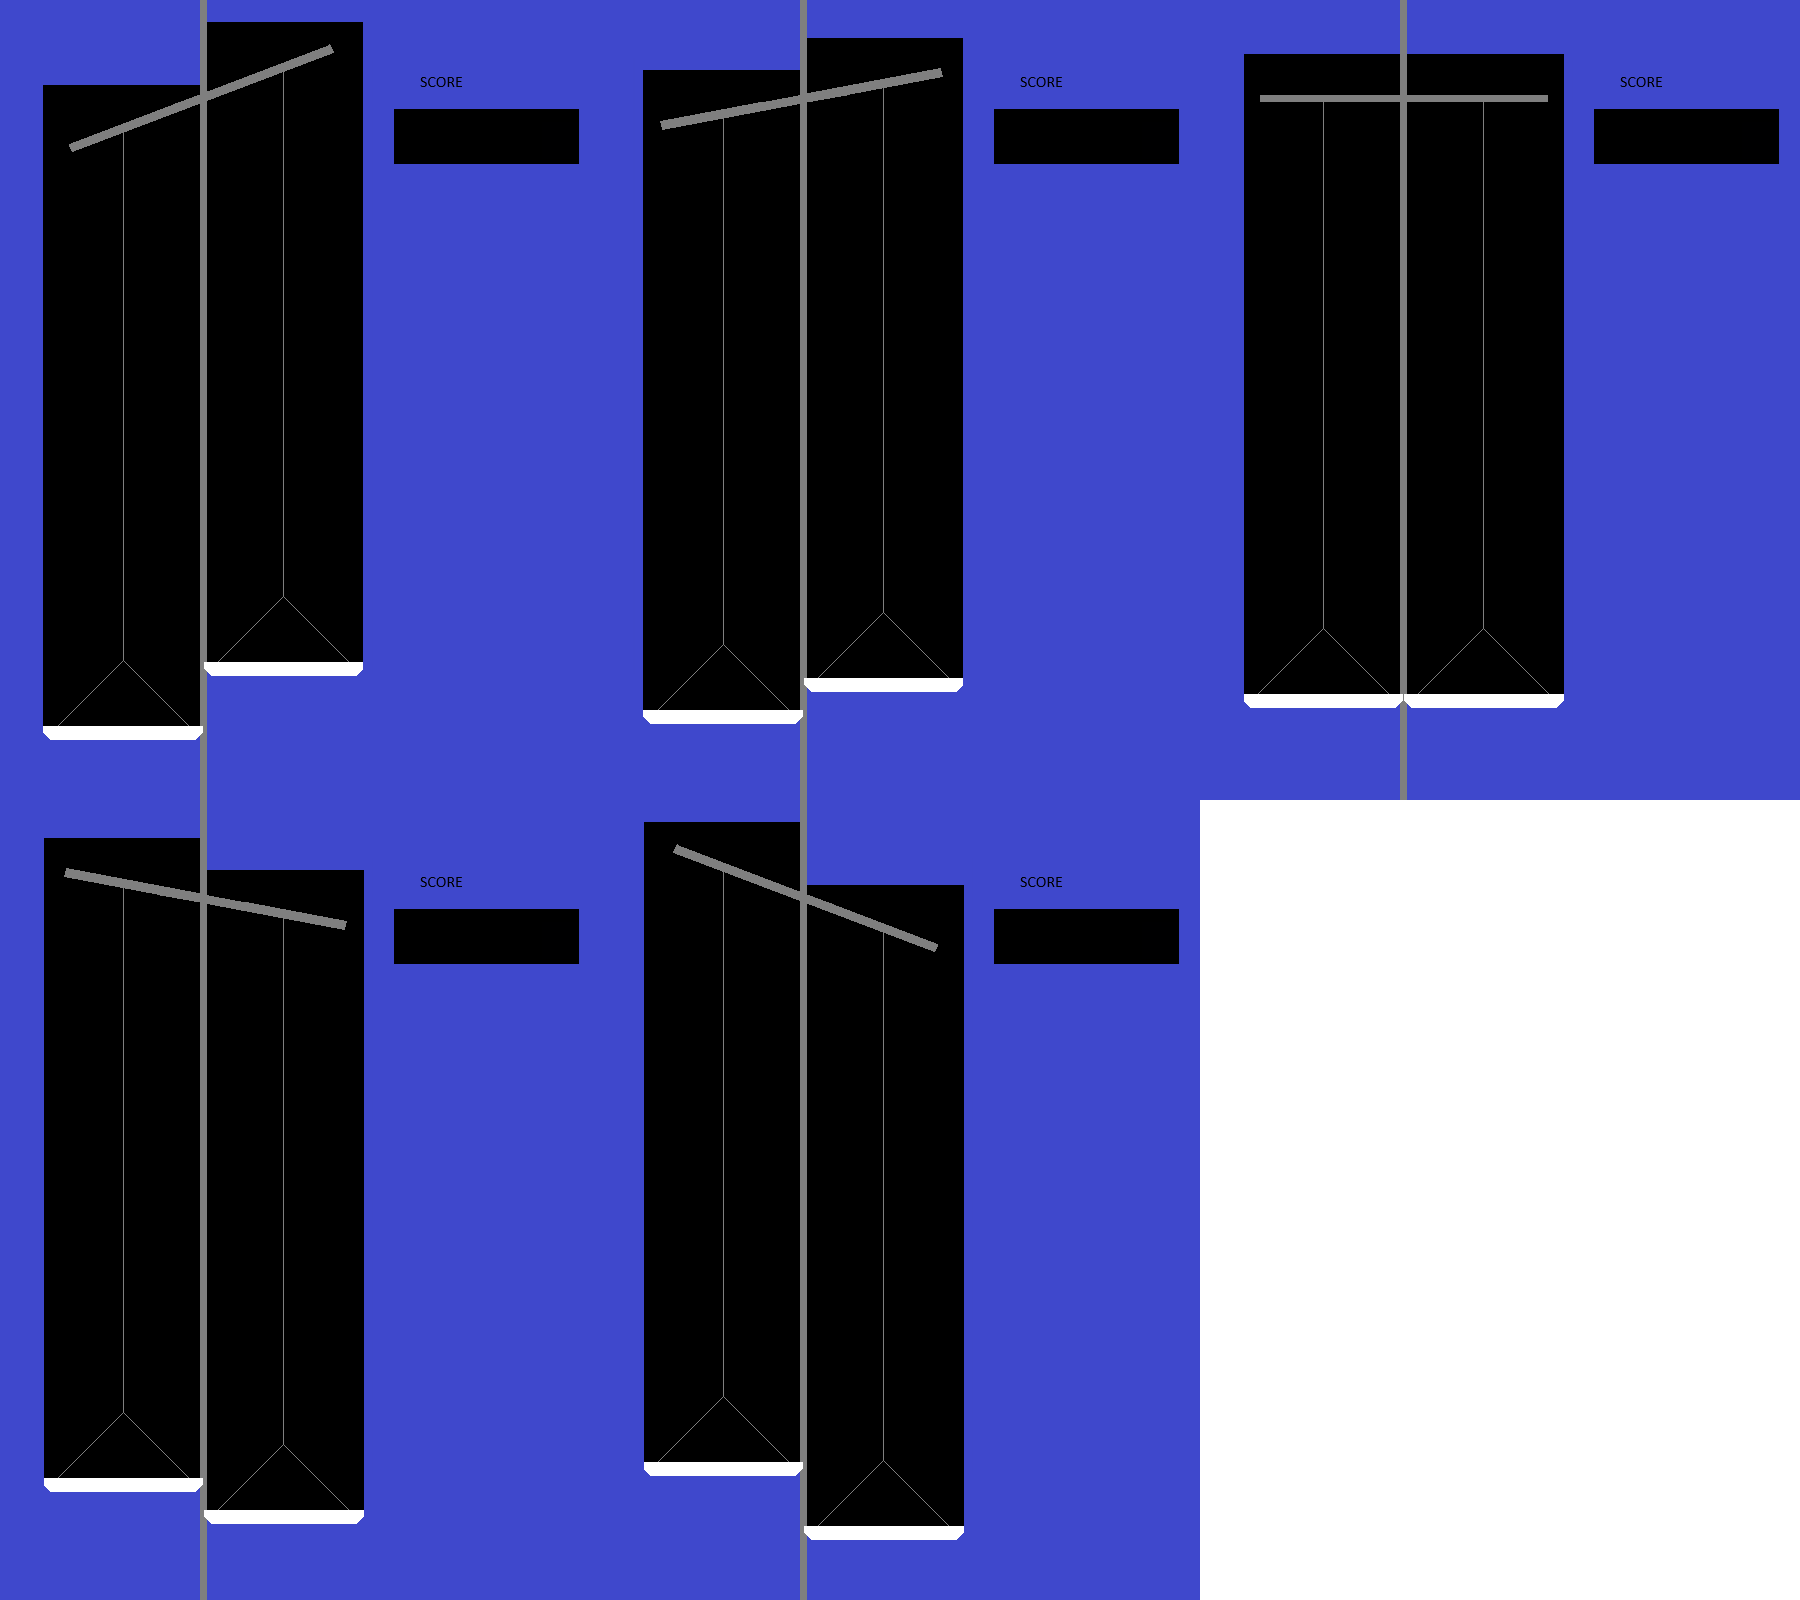
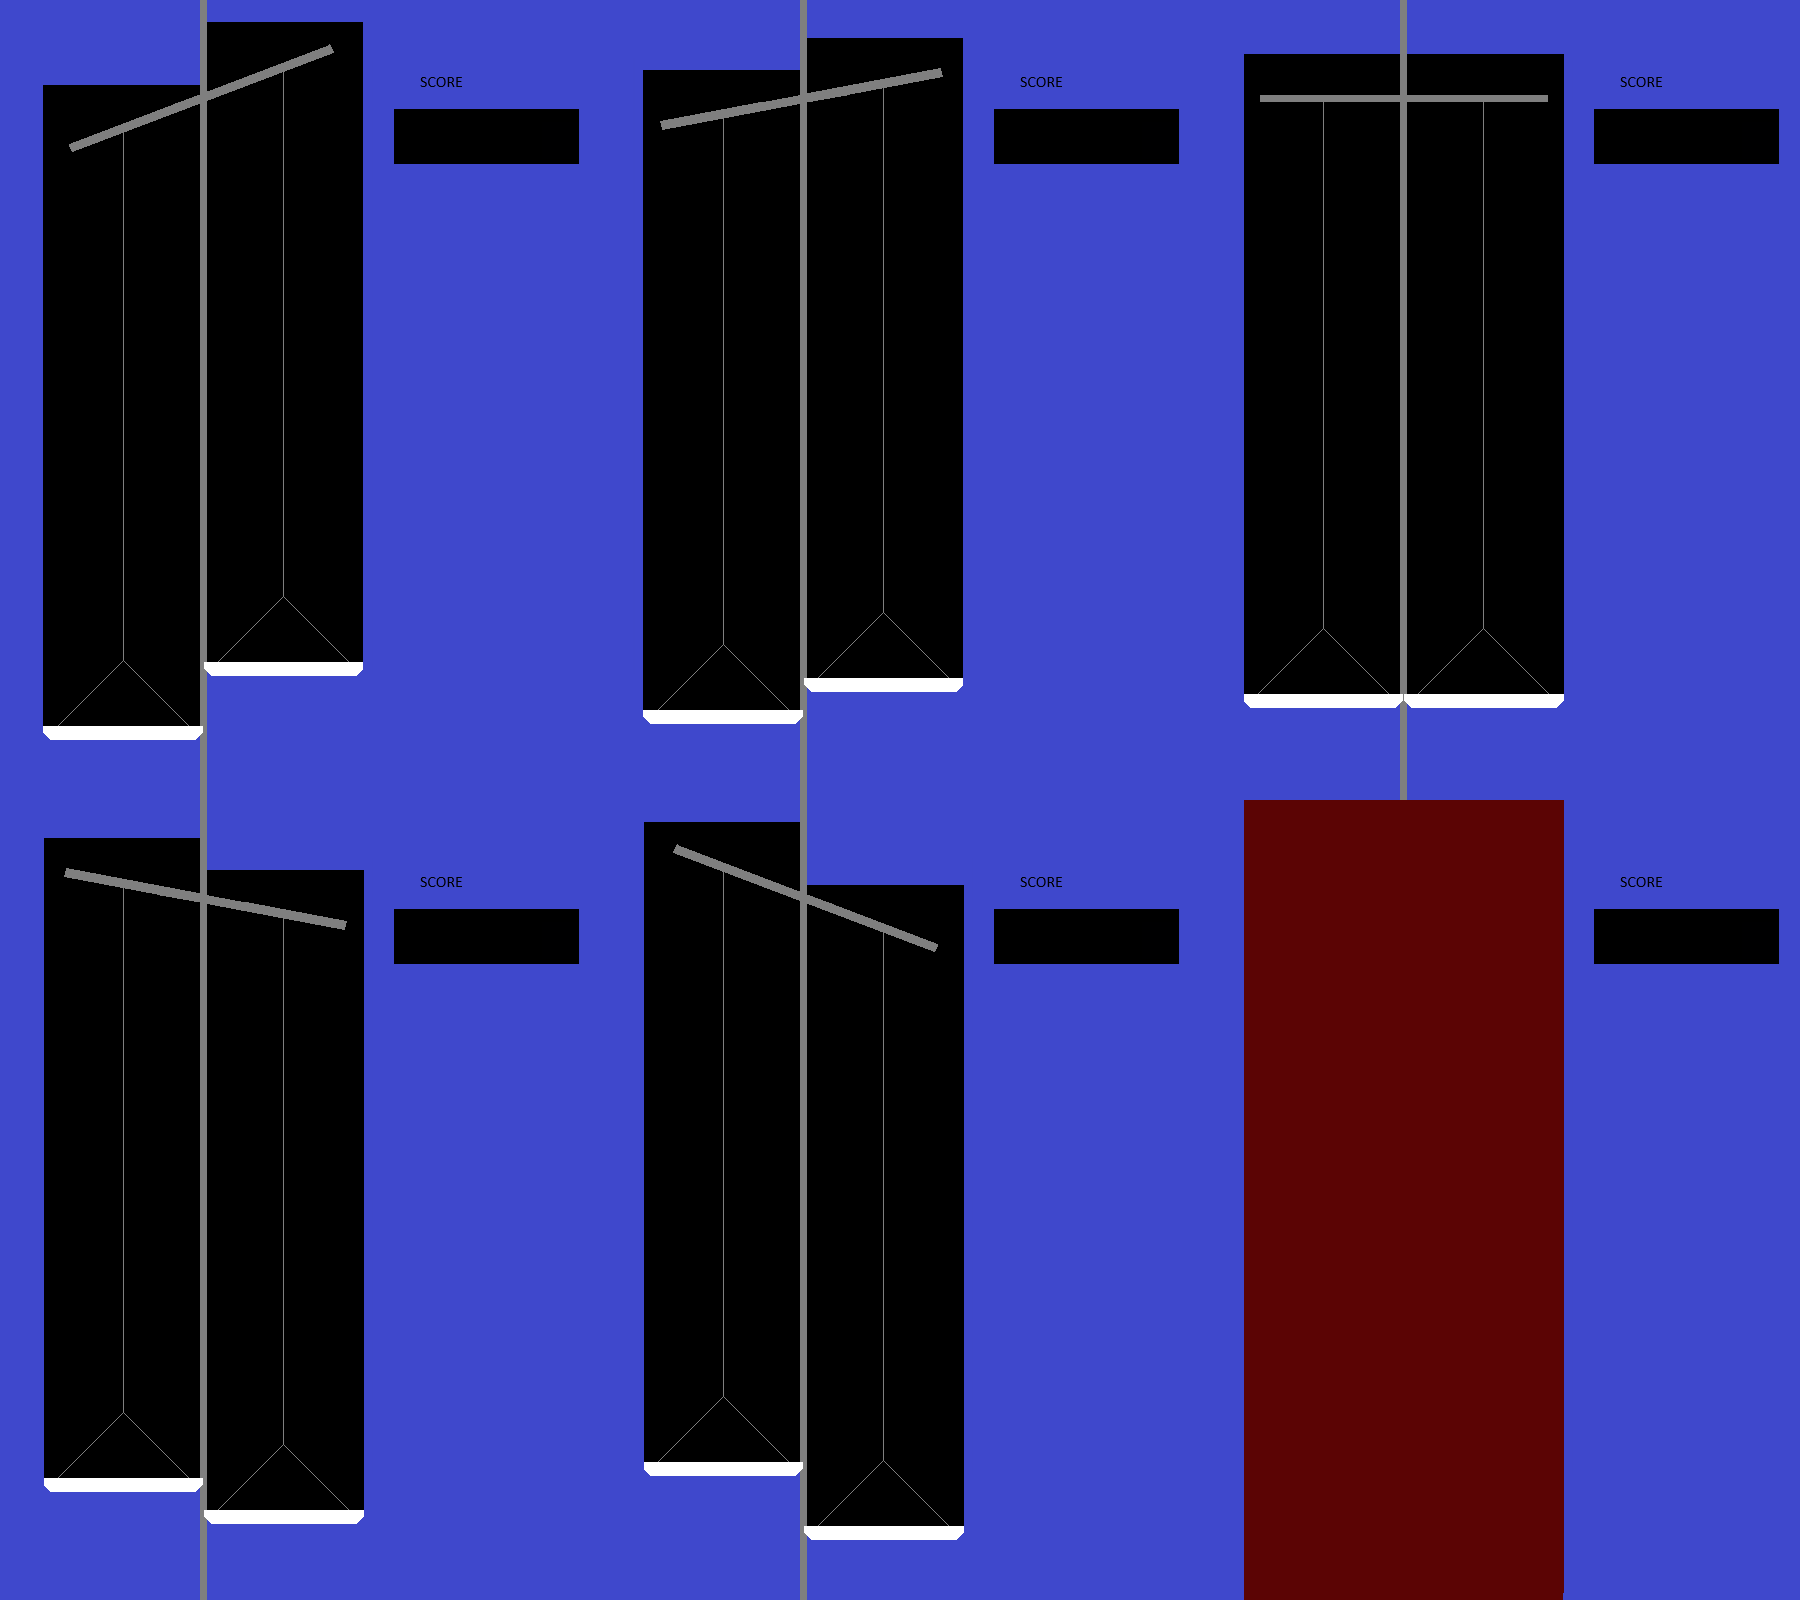
Add instructions  and game over experience

Changed region(s): [[0.6533, 0.5, 1.0, 1.0]]

diff --git a/app.js b/app.js
@@ -119,7 +119,11 @@ const tetronimos = [
     },
 ]
 
+const INITIAL_INTERVAL = 500;
+const INTERVAL_SPEEDUP = 0.8;
+const INTERVAL_LINES = 10;
 
+const TILT_THRESHOLD = 8;
 
 class Tetris extends Phaser.Scene {
     constructor() {
@@ -183,7 +187,7 @@ class Tetris extends Phaser.Scene {
         this.setNumber(this.leftWeightNumbers, leftWeight);
         this.setNumber(this.rightWeightNumbers, rightWeight);
 
-        this.setTilt(Math.trunc((leftWeight - rightWeight) / 10));
+        this.setTilt(Math.trunc((leftWeight - rightWeight) / TILT_THRESHOLD));
     }
 
     setTilt(newTilt) {
@@ -237,6 +241,7 @@ class Tetris extends Phaser.Scene {
             }
         }
         if (lineCount > 0) {
+            this.completedLines += lineCount;
             if (lineCount == 1) {
                 this.addScore(40);
             } else if (lineCount == 2) {
@@ -371,6 +376,24 @@ class Tetris extends Phaser.Scene {
 
     gameOver() {
         this.playing = false;
+        this.background.setFrame(5);
+    }
+
+    setUpGame() {
+        for (let x = 0; x < 10; x++) {
+            for (let y = 0; y < 20; y++) {
+                this.setData(x, y, 0);
+            }
+        }
+        this.updateWeights();
+
+        this.score = 0;
+        this.completedLines = 0;
+        this.addScore(0);
+
+        this.tetronimo = 0;
+        this.setNextTickTime();
+        this.playing = true;
     }
 
     /** Changes keyboard events into requests to the gameloop. */
@@ -436,14 +459,28 @@ class Tetris extends Phaser.Scene {
             this.scoreNumbers[i].scale = this.tileScale;
         }
 
+        this.add.text(380, 5, 'BALANCE TETRIS', {fontSize: '24px', fontStyle: 'bold'});
+        this.add.text(380, 200, 'Controls', {fontSize: '20px', fontStyle: 'bold'});
+        this.add.text(380, 220, 'Move:   Left & Right');
+        this.add.text(380, 240, 'Lower:  Down');
+        this.add.text(380, 260, 'Rotate: Up');
+        this.add.text(380, 280, 'Drop:   Space');
+
+        this.add.text(380, 350, 'Balancing', {fontSize: '20px', fontStyle: 'bold'});
+        this.add.text(380, 370, 'If you put too many');
+        this.add.text(380, 390, 'blocks on one side,');
+        this.add.text(380, 410, 'the scales will tilt!');
+        this.add.text(380, 440, 'Tilt too far and it\'s');
+        this.add.text(380, 460, '    Game Over!');
+
         this.nextTick = 0;
         this.moveRequested = [0, 0];
         this.dropRequested = false;
         this.rotateRequested = false;
         this.playing = true;
-        this.tickInterval = 500;
         this.score = 0;
         this.currentTilt = 0;
+        this.completedLines = 0;
 
         this.input.keyboard.on('keydown', this.inputHandler, this);
 
@@ -452,7 +489,9 @@ class Tetris extends Phaser.Scene {
     }
 
     setNextTickTime() {
-        this.nextTick = this.currentTime + this.tickInterval;
+        const interval = INITIAL_INTERVAL * (INTERVAL_SPEEDUP ** Math.floor(this.completedLines / INTERVAL_LINES));
+        this.nextTick = this.currentTime + interval;
+
     }
 
     processInput() {
